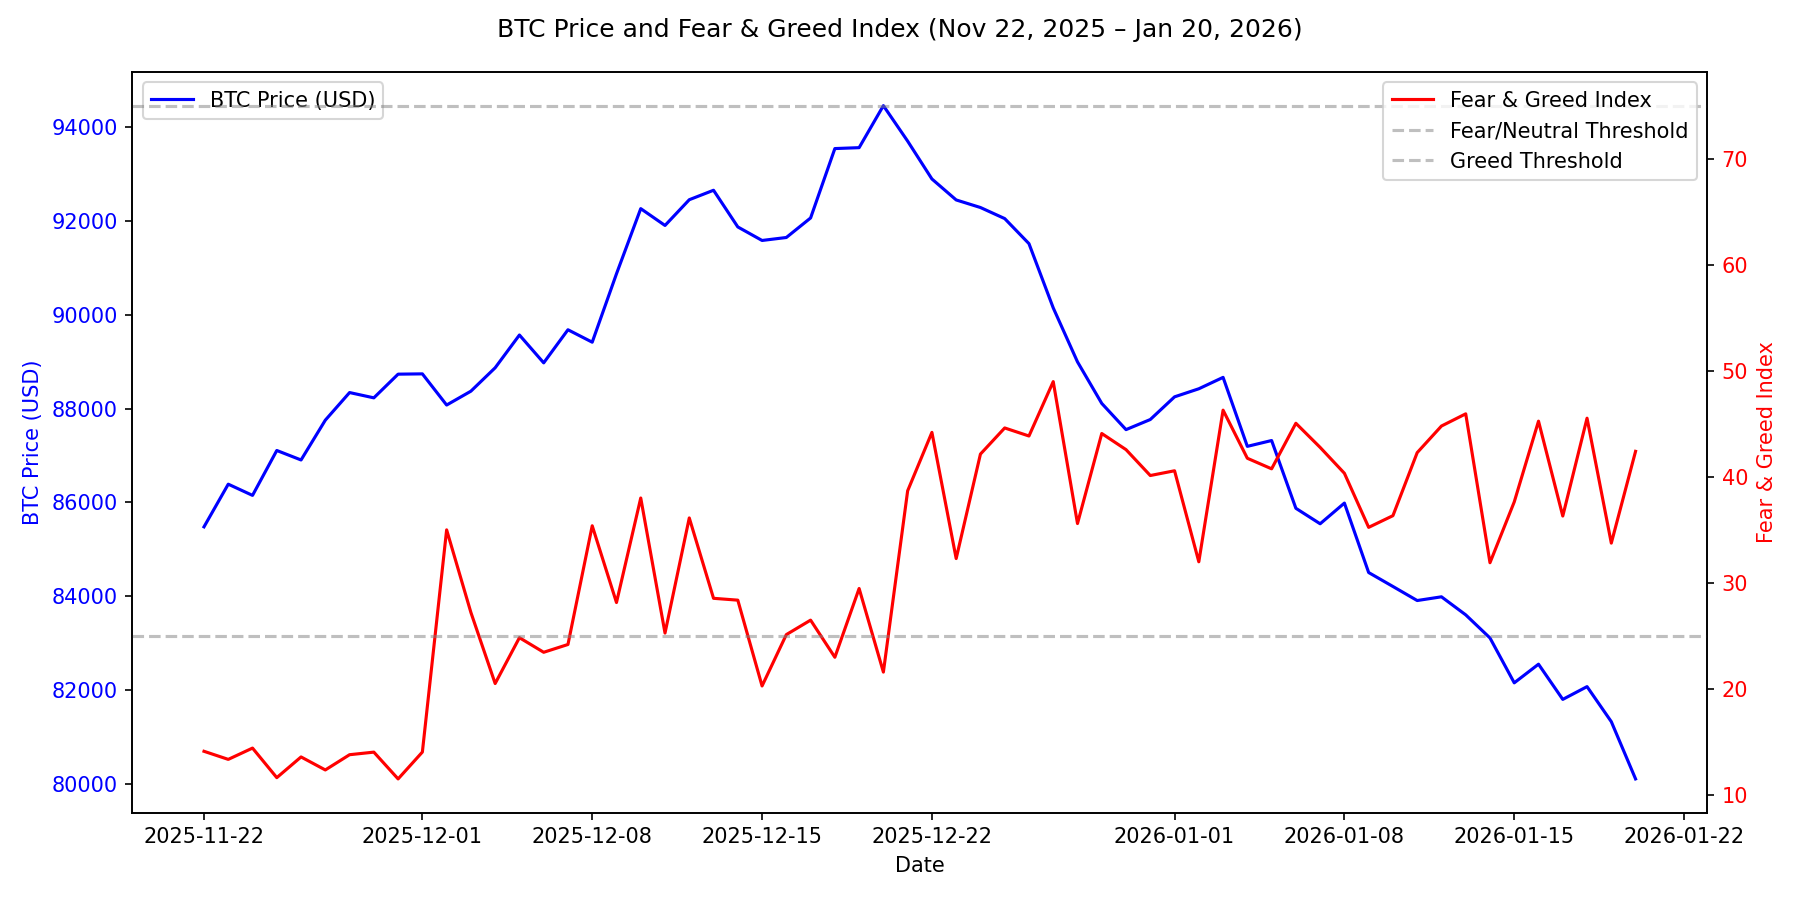
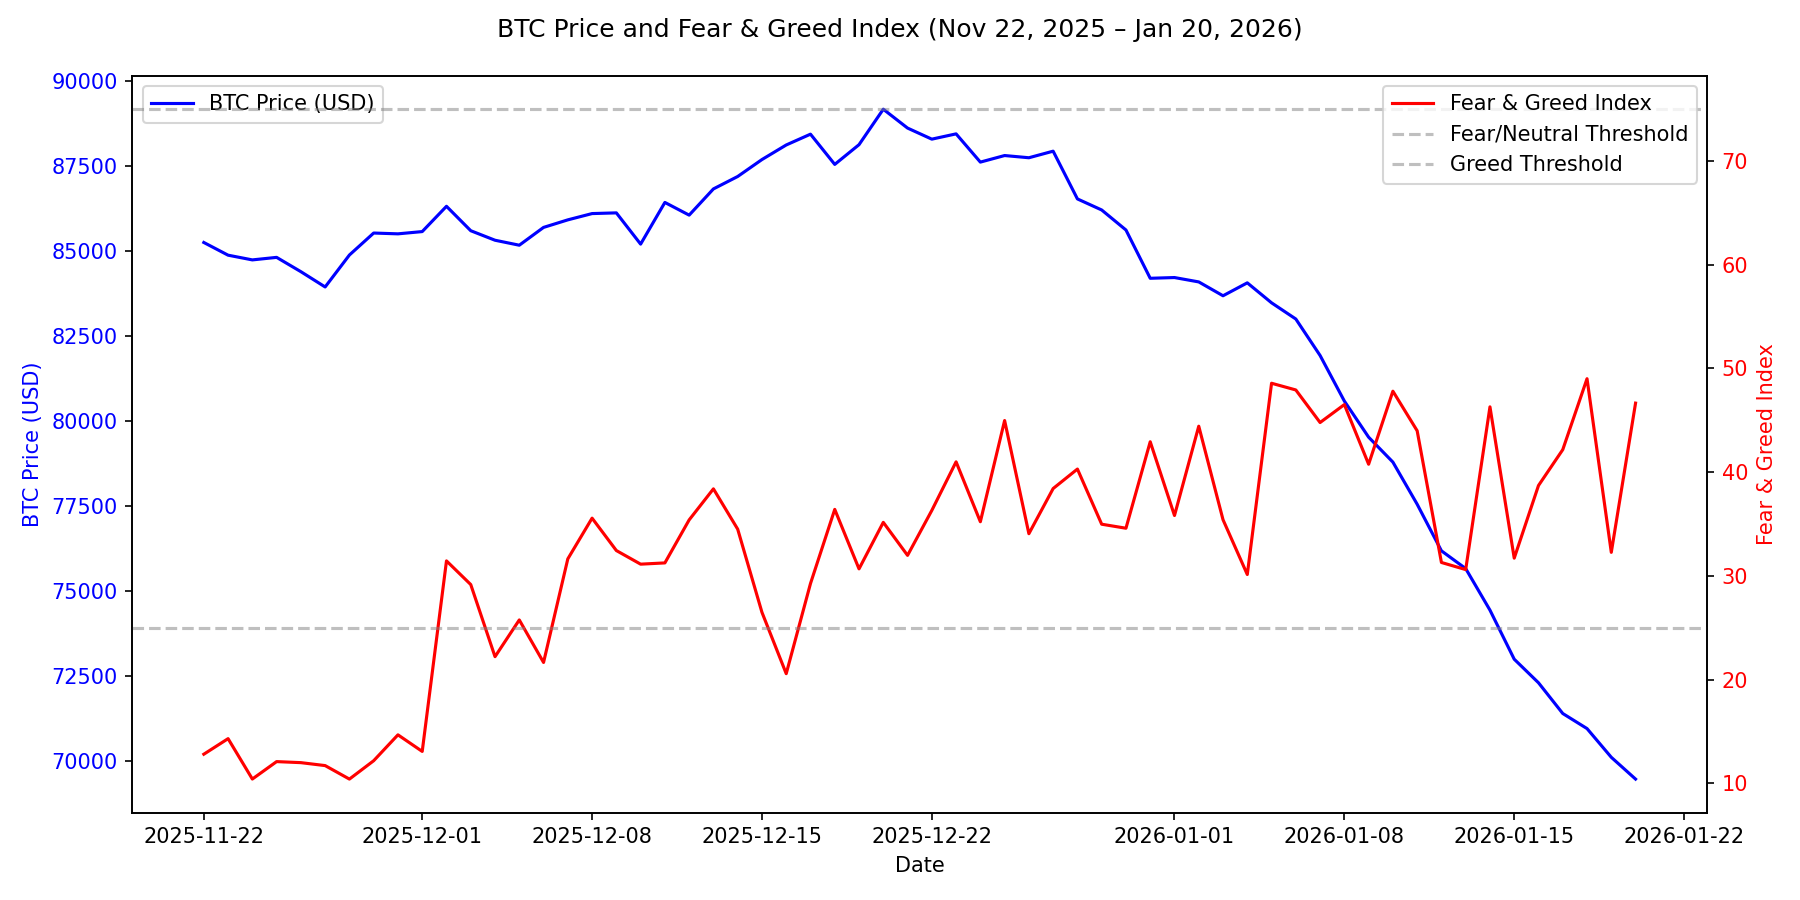
updated market emotion risk posture

diff --git a/market_emotion_risk_posture/market_emotion_risk_posture.tex b/market_emotion_risk_posture/market_emotion_risk_posture.tex
@@ -85,7 +85,7 @@ john.cragin@outlook.com}
 
 \date{\today}
 
-%{https://github.com/jhcragin/SpiralBrain-v3.0-public/market_emotion_risk_posture/results/market_emotion_research_20260120_201255}
+%{https://github.com/jhcragin/SpiralBrain-v3.0-public/tree/main/market_emotion_risk_posture/results}
 % Update this path to point at the run you want the paper to reference.
 \newcommand{\PublicVerificationRepo}{https://github.com/jhcragin/SpiralBrain-v3.0-public}
 
@@ -101,7 +101,7 @@ This complements prior work on stability-first regulation and real-time coherenc
 
 Readers primarily interested in the decision phenomenon may skim Sections 7–9 on auditability and return for results and discussion.
 
-No claims of trading alpha, profitability, or universality are made. All quantitative statements in this paper are grounded in the recorded artifacts for run \href{https://github.com/jhcragin/SpiralBrain-v3.0-public/market_emotion_risk_posture/results/market_emotion_research_20260120_201255}{market_emotion_research_20260120_201255}. Any non-quantitative interpretation is stated as a hypothesis with explicit falsification criteria.
+No claims of trading alpha, profitability, or universality are made. All quantitative statements in this paper are grounded in the recorded artifacts for run \href{https://github.com/jhcragin/SpiralBrain-v3.0-public/tree/main/market_emotion_risk_posture/results}{market_emotion_research_20260120_201255}. Any non-quantitative interpretation is stated as a hypothesis with explicit falsification criteria.
 
 \section{Problem Statement}
 
@@ -212,7 +212,7 @@ Inputs are derived from:
 	\item Bitcoin market chart (price and volume, USD) via CoinGecko \citep{CoinGeckoMarketChart}
 \end{itemize}
 
-For \href{https://github.com/jhcragin/SpiralBrain-v3.0-public/market_emotion_risk_posture/results/market_emotion_research_20260120_201255}{market_emotion_research_20260120_201255}, the dataset spans 60 matched UTC days, from \texttt{2025-11-22} through \texttt{2026-01-20}, inclusive. The integrator matches sources by a UTC day key formatted as \texttt{YYYY-MM-DD}.
+For \href{https://github.com/jhcragin/SpiralBrain-v3.0-public/tree/main/market_emotion_risk_posture/results}{market_emotion_research_20260120_201255}, the dataset spans 60 matched UTC days, from \texttt{2025-11-22} through \texttt{2026-01-20}, inclusive. The integrator matches sources by a UTC day key formatted as \texttt{YYYY-MM-DD}.
 
 \section{Market Window Visualization}
 
@@ -237,7 +237,7 @@ This work is designed to be verifiable offline. Each run records:
 	\item A deterministic SHA-256 hash of \texttt{market\_data\_used.json}
 \end{itemize}
 
-For \href{https://github.com/jhcragin/SpiralBrain-v3.0-public/market_emotion_risk_posture/results/market_emotion_research_20260120_201255}{market_emotion_research_20260120_201255}, the recorded provenance hashes are:\footnote{Fear \& Greed payload SHA-256: \texttt{19a11878e84203466013594cf49eb5584a1f69e8702e5383fc3d9053e3759e0d}; BTC market payload SHA-256: \texttt{fc7db290bff8c070e92c40fad1ff8ee08e2a259dbd726749749a342bc63a86b7}; \texttt{market\_data\_used.json} SHA-256: \texttt{8785bb45407cfa07b843ae61379a0b92d759b30181d2305c04f669d691e3efb2}}
+For \href{https://github.com/jhcragin/SpiralBrain-v3.0-public/tree/main/market_emotion_risk_posture/results}{market_emotion_research_20260120_201255}, the recorded provenance hashes are:\footnote{Fear \& Greed payload SHA-256: \texttt{19a11878e84203466013594cf49eb5584a1f69e8702e5383fc3d9053e3759e0d}; BTC market payload SHA-256: \texttt{fc7db290bff8c070e92c40fad1ff8ee08e2a259dbd726749749a342bc63a86b7}; \texttt{market\_data\_used.json} SHA-256: \texttt{8785bb45407cfa07b843ae61379a0b92d759b30181d2305c04f669d691e3efb2}}
 
 The run metadata records the exact command-line invocation used to generate artifacts.
 
@@ -249,7 +249,7 @@ To support journal review without requiring trust in the author or access to any
 \href{https://github.com/jhcragin/SpiralBrain-v3.0-public}{SpiralBrain-v3.0-public}
 \end{quote}
 
-The public repository contains a frozen verification contract (\href{https://github.com/jhcragin/SpiralBrain-v3.0-public/blob/main/VERIFICATION.md}{VERIFICATION.md}), a stdlib-only offline verifier (\href{https://github.com/jhcragin/SpiralBrain-v3.0-public/market_emotion_risk_posture/verify_reference_run.py}{verify_reference_run.py}), and a canonized reference specimen under \texttt{fixtures/market_emotion/reference_run/}. Verification requires no network access and does not execute SpiralBrain inference.
+The public repository contains a frozen verification contract (\href{https://github.com/jhcragin/SpiralBrain-v3.0-public/blob/main/README.md}{README.md}), a stdlib-only offline verifier (\href{https://github.com/jhcragin/SpiralBrain-v3.0-public/blob/main/market_emotion_risk_posture/verify_reference_run.py}{verify_reference_run.py}), and a canonized reference specimen under \texttt{results/}. Verification requires no network access and does not execute SpiralBrain inference.
 
 \section{Experimental Setup}
 
@@ -261,7 +261,7 @@ SpiralBrain v3.0 is treated as an instrumented regulatory cognitive system. The 
 
 \subsection{Profiles}
 
-The following six profiles are tested in \href{https://github.com/jhcragin/SpiralBrain-v3.0-public/market_emotion_risk_posture/results/market_emotion_research_20260120_201255}{market_emotion_research_20260120_201255}:
+The following six profiles are tested in \href{https://github.com/jhcragin/SpiralBrain-v3.0-public/tree/main/market_emotion_risk_posture/results}{market_emotion_research_20260120_201255}:
 \texttt{control\_neutral}, \texttt{high\_hazard\_alert}, \texttt{overconfident\_explorer}, \texttt{high\_uncertainty}, \texttt{complacent}, \texttt{defensive}.
 
 Profiles differ only in the injected \texttt{emotional\_state} parameters (valence, arousal, hazard pressure, neuromodulator flexibility); no profile alters external inputs, feature extraction, or the output contract.
@@ -330,7 +330,7 @@ The absence of sell postures in this window reflects a high de-risking threshold
 
 \section{Discussion}
 
-When exposed to the same aligned 60-day market time series, the system exhibits a clean separation in participation behavior: hazard-biased profiles consistently refuse new exposure (\emph{hold}), while neutral and exploratory profiles consistently accept exposure (\emph{buy}). This separation is observed in run \href{https://github.com/jhcragin/SpiralBrain-v3.0-public/market_emotion_risk_posture/results/market_emotion_research_20260120_201255}{market_emotion_research_20260120_201255}. This observation supports hypothesis H1 for this run. The emotional state is modulating the threshold for action rather than the certainty of the underlying belief.
+When exposed to the same aligned 60-day market time series, the system exhibits a clean separation in participation behavior: hazard-biased profiles consistently refuse new exposure (\emph{hold}), while neutral and exploratory profiles consistently accept exposure (\emph{buy}). This separation is observed in run \href{https://github.com/jhcragin/SpiralBrain-v3.0-public/tree/main/market_emotion_risk_posture/results}{market_emotion_research_20260120_201255}. This observation supports hypothesis H1 for this run. The emotional state is modulating the threshold for action rather than the certainty of the underlying belief.
 This experiment is designed to test separation, not calibration; graded effects are not necessary to falsify the null hypothesis—clean separation under byte-identical inputs is sufficient.
 The consistency of postures within each profile (all-hold or all-buy) is an observed outcome of this specific run, not a hard-coded decision rule. In this benchmark, the same inference pipeline processes the same input data; only the injected emotional state differs across profiles, yet the outputs differ. A stronger objection remains possible: the system's mapping may saturate under this particular window and asset. That objection is falsifiable by repeating the run on other time windows or assets and checking whether posture distributions change under the same profiles.
 
@@ -342,34 +342,34 @@ The absence of \emph{sell} postures in this window reflects the selected market 
 
 \section{Verification Summary (Auditability)}
 
-This paper makes the following claims. Each claim is either directly verifiable from artifacts in \href{https://github.com/jhcragin/SpiralBrain-v3.0-public/market_emotion_risk_posture/results/market_emotion_research_20260120_201255}{market_emotion_research_20260120_201255} or is explicitly falsifiable.
+This paper makes the following claims. Each claim is either directly verifiable from artifacts in \href{https://github.com/jhcragin/SpiralBrain-v3.0-public/tree/main/market_emotion_risk_posture/results}{market_emotion_research_20260120_201255} or is explicitly falsifiable.
 
 \subsection{Artifact-Verifiable Claims}
 
 \begin{itemize}
-	\item \textbf{C1 (Run identity)}: The analyzed run \\ \href{https://github.com/jhcragin/SpiralBrain-v3.0-public/market_emotion_risk_posture/results/market_emotion_research_20260120_201255}{market_emotion_research_20260120_201255}. \\
-	\emph{Verification:} read \href{https://github.com/jhcragin/SpiralBrain-v3.0-public/market_emotion_risk_posture/results/market_emotion_research_20260120_201255/summary_report.json}{summary_report.json}.
+	\item \textbf{C1 (Run identity)}: The analyzed run \\ \href{https://github.com/jhcragin/SpiralBrain-v3.0-public/tree/main/market_emotion_risk_posture/results}{market_emotion_research_20260120_201255}. \\
+	\emph{Verification:} read \href{https://github.com/jhcragin/SpiralBrain-v3.0-public/blob/main/market_emotion_risk_posture/results/summary_report.json}{summary_report.json}.
 
 	\item \textbf{C2 (Dataset size and alignment)}: The run uses 60 matched days in UTC with start \texttt{2025-11-22} and end \texttt{2026-01-20}. \\
-	\emph{Verification:} read \href{https://github.com/jhcragin/SpiralBrain-v3.0-public/market_emotion_risk_posture/results/market_emotion_research_20260120_201255/summary_report.json}{summary_report.json} for the \texttt{dataset\_provenance.alignment.matched\_days}, \texttt{matched\_day\_range}, and the explicit list \texttt{matched\_days\_in\_order}.
+	\emph{Verification:} read \href{https://github.com/jhcragin/SpiralBrain-v3.0-public/blob/main/market_emotion_risk_posture/results/summary_report.json}{summary_report.json} for the \texttt{dataset\_provenance.alignment.matched\_days}, \texttt{matched\_day\_range}, and the explicit list \texttt{matched\_days\_in\_order}.
 
 	\item \textbf{C3 (Audit-bundled upstream payloads)}: The run stores gzipped raw upstream payloads whose SHA-256 hashes match the recorded \\ \texttt{dataset\_provenance.sources.*.sha256}. \\
-	\emph{Verification:} recompute SHA-256 over the decompressed UTF-8 text of \\ \href{https://github.com/jhcragin/SpiralBrain-v3.0-public/market_emotion_risk_posture/results/market_emotion_research_20260120_201255/provenance/raw/19a11878e84203466013594cf49eb5584a1f69e8702e5383fc3d9053e3759e0d.json.gz}{19a11878e84203466013594cf49eb5584a1f69e8702e5383fc3d9053e3759e0d.json.gz} and \\ \href{https://github.com/jhcragin/SpiralBrain-v3.0-public/market_emotion_risk_posture/results/market_emotion_research_20260120_201255/provenance/raw/fc7db290bff8c070e92c40fad1ff8ee08e2a259dbd726749749a342bc63a86b7.json.gz}{fc7db290bff8c070e92c40fad1ff8ee08e2a259dbd726749749a342bc63a86b7.json.gz} and compare to \texttt{sources.*.sha256}.\footnote{Offline verification (no network, no inference) is provided by \texttt{verify\_reference\_run.py} for the canonized fixture specimen.}
+	\emph{Verification:} recompute SHA-256 over the decompressed UTF-8 text of \\ \href{https://github.com/jhcragin/SpiralBrain-v3.0-public/blob/main/market_emotion_risk_posture/results/provenance/raw/19a11878e84203466013594cf49eb5584a1f69e8702e5383fc3d9053e3759e0d.json.gz}{19a11878e84203466013594cf49eb5584a1f69e8702e5383fc3d9053e3759e0d.json.gz} and \\ \href{https://github.com/jhcragin/SpiralBrain-v3.0-public/blob/main/market_emotion_risk_posture/results/provenance/raw/fc7db290bff8c070e92c40fad1ff8ee08e2a259dbd726749749a342bc63a86b7.json.gz}{fc7db290bff8c070e92c40fad1ff8ee08e2a259dbd726749749a342bc63a86b7.json.gz} and compare to \texttt{sources.*.sha256}.\footnote{Offline verification (no network, no inference) is provided by \texttt{verify\_reference\_run.py} for the canonized fixture specimen.}
 
 \pagebreak
 
 	\item \textbf{C4 (Exact model input captured)}: The exact aligned input time series used for inference is stored as \texttt{provenance/market\_data\_used.json} and its deterministic SHA-256 equals \texttt{dataset\_provenance.market\_data\_sha256}. \\
-	\emph{Verification:} hash the canonical JSON encoding of \href{https://github.com/jhcragin/SpiralBrain-v3.0-public/market_emotion_risk_posture/results/market_emotion_research_20260120_201255/provenance/market_data_used.json}{market_data_used.json} and compare to the recorded SHA-256.\footnote{Offline verification (no network, no inference) is provided by \texttt{verify\_reference\_run.py} for the canonized fixture specimen.}
+	\emph{Verification:} hash the canonical JSON encoding of \href{https://github.com/jhcragin/SpiralBrain-v3.0-public/blob/main/market_emotion_risk_posture/results/provenance/market_data_used.json}{market_data_used.json} and compare to the recorded SHA-256.\footnote{Offline verification (no network, no inference) is provided by \texttt{verify\_reference\_run.py} for the canonized fixture specimen.}
 
 	\item \textbf{C5 (Prediction counts)}: The run produces 6 profiles $\times$ 60 days $=$ 360 predictions, and 0 prediction errors. \\
 	\emph{Verification:} read \texttt{total\_profiles}, \texttt{market\_data\_points}, \\
-    and \texttt{results\_summary.<profile>.error\_predictions} in \href{https://github.com/jhcragin/SpiralBrain-v3.0-public/market_emotion_risk_posture/results/market_emotion_research_20260120_201255/summary_report.json}{summary_report.json}.
+    and \texttt{results\_summary.<profile>.error\_predictions} in \href{https://github.com/jhcragin/SpiralBrain-v3.0-public/blob/main/market_emotion_risk_posture/results/summary_report.json}{summary_report.json}.
 
 	\item \textbf{C6 (Observed posture distributions)}: In this run, \texttt{high\_hazard\_alert} and \texttt{defensive} selected hold on every aligned day in the 60-day window; the other four profiles selected buy on every aligned day in the same window; no profile selected sell on any aligned day. \\
-	\emph{Verification:} read \texttt{results\_summary.<profile>.direction\_distribution} in \href{https://github.com/jhcragin/SpiralBrain-v3.0-public/market_emotion_risk_posture/results/market_emotion_research_20260120_201255/summary_report.json}{summary_report.json} or the generated table included in this document.
+	\emph{Verification:} read \texttt{results\_summary.<profile>.direction\_distribution} in \href{https://github.com/jhcragin/SpiralBrain-v3.0-public/blob/main/market_emotion_risk_posture/results/summary_report.json}{summary_report.json} or the generated table included in this document.
 
 	\item \textbf{C7 (Upstream request parameters and status)}: In this run, upstream providers return HTTP status code 200, and the CoinGecko request is \texttt{vs\_currency=usd}, \texttt{days=62}, \texttt{interval=daily}.
-	\emph{Verification:} read \\ \texttt{dataset\_provenance.sources.fear\_greed.status\_code}, \\ \texttt{dataset\_provenance.sources.btc\_market.status\_code}, and the recorded \texttt{url} fields under \texttt{dataset\_provenance.sources} in \href{https://github.com/jhcragin/SpiralBrain-v3.0-public/market_emotion_risk_posture/results/market_emotion_research_20260120_201255/summary_report.json}{summary_report.json}.
+	\emph{Verification:} read \\ \texttt{dataset\_provenance.sources.fear\_greed.status\_code}, \\ \texttt{dataset\_provenance.sources.btc\_market.status\_code}, and the recorded \texttt{url} fields under \texttt{dataset\_provenance.sources} in \href{https://github.com/jhcragin/SpiralBrain-v3.0-public/blob/main/market_emotion_risk_posture/results/summary_report.json}{summary_report.json}.
 \end{itemize}
 
 \subsection*{Referenced Artifacts}
@@ -377,11 +377,11 @@ This paper makes the following claims. Each claim is either directly verifiable 
 The following files are directly referenced in this paper. Each filename links to its exact location in the public verification repository.
 
 \begin{itemize}
-  \item \href{https://github.com/jhcragin/SpiralBrain-v3.0-public/market_emotion_risk_posture/results/market_emotion_research_20260120_201255/summary_report.json}{summary_report.json}
-  \item \href{https://github.com/jhcragin/SpiralBrain-v3.0-public/market_emotion_risk_posture/results/market_emotion_research_20260120_201255/provenance/market_data_used.json}{market_data_used.json}
-  \item \href{https://github.com/jhcragin/SpiralBrain-v3.0-public/market_emotion_risk_posture/results/market_emotion_research_20260120_201255/provenance/raw/19a11878e84203466013594cf49eb5584a1f69e8702e5383fc3d9053e3759e0d.json.gz}{19a11878e84203466013594cf49eb5584a1f69e8702e5383fc3d9053e3759e0d.json.gz}
-  \item \href{https://github.com/jhcragin/SpiralBrain-v3.0-public/market_emotion_risk_posture/results/market_emotion_research_20260120_201255/provenance/raw/fc7db290bff8c070e92c40fad1ff8ee08e2a259dbd726749749a342bc63a86b7.json.gz}{fc7db290bff8c070e92c40fad1ff8ee08e2a259dbd726749749a342bc63a86b7.json.gz}
-  \item \href{https://github.com/jhcragin/SpiralBrain-v3.0-public/market_emotion_risk_posture/results/market_emotion_research_20260120_201255/VERIFY.sha256}{VERIFY.sha256}
+  \item \href{https://github.com/jhcragin/SpiralBrain-v3.0-public/blob/main/market_emotion_risk_posture/results/summary_report.json}{summary_report.json}
+  \item \href{https://github.com/jhcragin/SpiralBrain-v3.0-public/blob/main/market_emotion_risk_posture/results/provenance/market_data_used.json}{market_data_used.json}
+  \item \href{https://github.com/jhcragin/SpiralBrain-v3.0-public/blob/main/market_emotion_risk_posture/results/provenance/raw/19a11878e84203466013594cf49eb5584a1f69e8702e5383fc3d9053e3759e0d.json.gz}{19a11878e84203466013594cf49eb5584a1f69e8702e5383fc3d9053e3759e0d.json.gz}
+  \item \href{https://github.com/jhcragin/SpiralBrain-v3.0-public/blob/main/market_emotion_risk_posture/results/provenance/raw/fc7db290bff8c070e92c40fad1ff8ee08e2a259dbd726749749a342bc63a86b7.json.gz}{fc7db290bff8c070e92c40fad1ff8ee08e2a259dbd726749749a342bc63a86b7.json.gz}
+  \item \href{https://github.com/jhcragin/SpiralBrain-v3.0-public/blob/main/market_emotion_risk_posture/results/VERIFY.sha256}{VERIFY.sha256}
 \end{itemize}
 
 \section{Limitations}
@@ -402,7 +402,7 @@ We separate \textbf{verification} (artifact integrity) from \textbf{reproduction
 To verify that the published artifacts say what this paper claims (no network, no inference)\footnote{This verification standard is analogous to checksum-based validation used for scientific instruments and archival datasets.}, access the public repository:
 
 \begin{quote}
-\href{https://github.com/jhcragin/SpiralBrain-v3.0-public/market_emotion_risk_posture}{SpiralBrain-v3.0-public/market_emotion_risk_posture}
+\href{https://github.com/jhcragin/SpiralBrain-v3.0-public}{SpiralBrain-v3.0-public}
 \end{quote}
 
 \subsection{Reproduction (online, hypothesis-level)}
